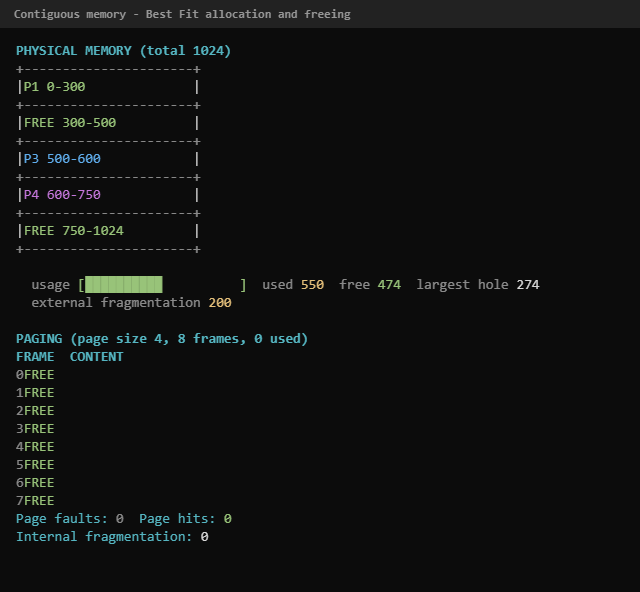
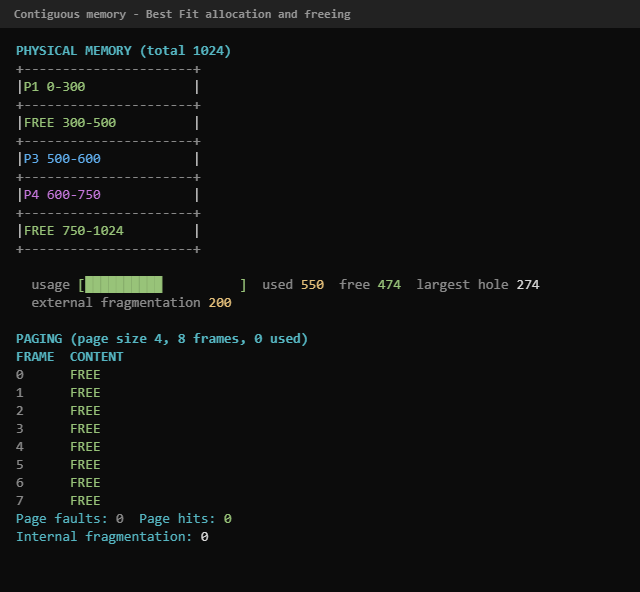
fix(paging): pad frame numbers before applying color codes
The format width was applied to the ANSI wrapped string, so the invisible
escape codes consumed the width and rows rendered as '0FREE'. Pad first,
color second. Screenshots regenerated at v1.2.1.

Changed region(s): [[0.0312, 0.6081, 0.1562, 0.8514]]

diff --git a/src/paging.rs b/src/paging.rs
@@ -208,7 +208,9 @@ impl PagedMemory {
                 Some(u) => paint(&format!("P{} page {}", u.pid, u.page), pid_fg(u.pid)),
                 None => paint("FREE", GREEN),
             };
-            s.push_str(&format!("{}\n", format!("{:<7}{}", paint(&i.to_string(), DIM), content)));
+            // Pad before painting: ANSI codes count as characters and would
+            // defeat the format width.
+            s.push_str(&format!("{}{}\n", paint(&format!("{:<7}", i), DIM), content));
         }
         s.push_str(&format!(
             "{} {}  {} {}\n",
